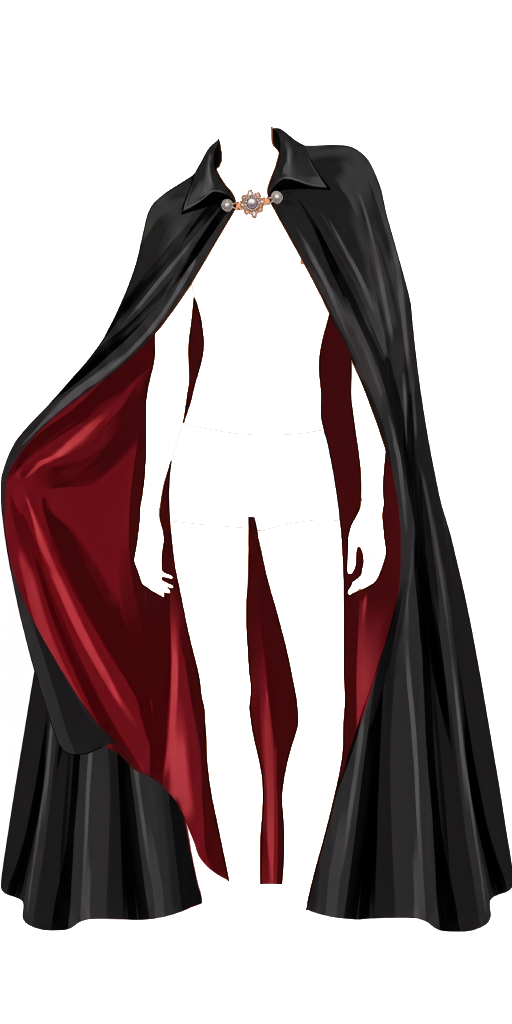
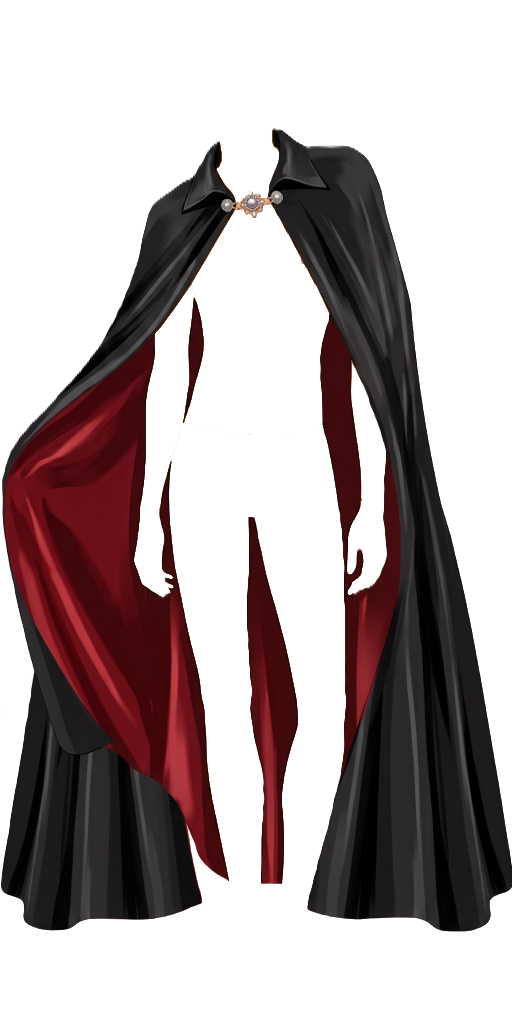
아이템의 썸네일-착용-결과 매칭 검수 및 양말 레이어링 문제 해결

diff --git a/src/pages/Result.jsx b/src/pages/Result.jsx
@@ -15,7 +15,7 @@ const CHARACTER_BASE = {
   jh: "/character-img/yjh.png",
 };
 
-const EMPTY_ROOM = { top: null, outer: null, bottom: null, shoes: null, acc: [] };
+const EMPTY_ROOM = { top: null, outer: null, bottom: null, socks: null, shoes: null, acc: [] };
 
 function SparkleBackground() {
   const sparkles = Array.from({ length: 15 }, (_, i) => ({
@@ -47,6 +47,9 @@ function FinalCharacter({ roomId, room }) {
     <div className={`final-character-display final-character-display--${roomId}`}>
       <img src={characterImg} alt={`${roomId} final pose`} className="final-layer-img final-layer-body" />
 
+      {room.socks && (
+        <img src={resolveItemImage(roomId, room.socks.image)} alt="socks" className="final-layer-img final-layer-socks" />
+      )}
       {room.shoes && (
         <img src={resolveItemImage(roomId, room.shoes.image)} alt="shoes" className="final-layer-img final-layer-shoes" />
       )}

diff --git a/src/css/Result.css b/src/css/Result.css
@@ -163,6 +163,7 @@
 }
 
 .final-layer-body { z-index: 10; }
+.final-layer-socks {  z-index: 20;}
 .final-layer-shoes { z-index: 25; }
 .final-layer-bottom { z-index: 30; }
 .final-layer-top { z-index: 35; }
